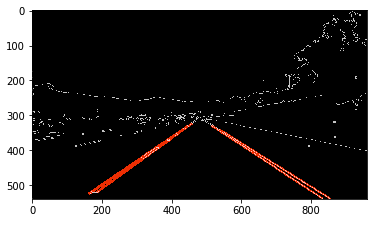
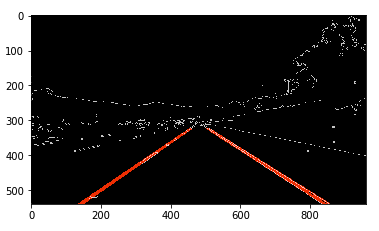
Update the drawing function

diff --git a/P1.html b/P1.html
@@ -13250,7 +13250,7 @@ div#notebook {
 
 
 <div class="output_text output_subarea output_execute_result">
-<pre>&lt;matplotlib.image.AxesImage at 0x7f24d185a320&gt;</pre>
+<pre>&lt;matplotlib.image.AxesImage at 0x7fbd52cb1320&gt;</pre>
 </div>
 
 </div>
@@ -13314,7 +13314,7 @@ div#notebook {
 </div>
 <div class="cell border-box-sizing code_cell rendered">
 <div class="input">
-<div class="prompt input_prompt">In&nbsp;[3]:</div>
+<div class="prompt input_prompt">In&nbsp;[78]:</div>
 <div class="inner_cell">
     <div class="input_area">
 <div class=" highlight hl-ipython3"><pre><span></span><span class="kn">import</span> <span class="nn">math</span>
@@ -13380,19 +13380,92 @@ div#notebook {
 <span class="sd">    If you want to make the lines semi-transparent, think about combining</span>
 <span class="sd">    this function with the weighted_img() function below</span>
 <span class="sd">    &quot;&quot;&quot;</span>
+    <span class="n">img_width</span> <span class="o">=</span> <span class="n">img</span><span class="o">.</span><span class="n">shape</span><span class="p">[</span><span class="mi">1</span><span class="p">]</span>
+    <span class="n">img_height</span> <span class="o">=</span> <span class="n">img</span><span class="o">.</span><span class="n">shape</span><span class="p">[</span><span class="mi">0</span><span class="p">]</span>
+    
+    <span class="n">x_left</span> <span class="o">=</span> <span class="p">[]</span>
+    <span class="n">y_left</span> <span class="o">=</span> <span class="p">[]</span>
+    <span class="n">m_left</span> <span class="o">=</span> <span class="p">[]</span>
+    <span class="n">b_left</span> <span class="o">=</span> <span class="p">[]</span>
+    <span class="n">x_right</span> <span class="o">=</span> <span class="p">[]</span>
+    <span class="n">y_right</span> <span class="o">=</span> <span class="p">[]</span>
+    <span class="n">m_right</span> <span class="o">=</span> <span class="p">[]</span>
+    <span class="n">b_right</span> <span class="o">=</span> <span class="p">[]</span>
+      
+    <span class="n">left_cnt</span> <span class="o">=</span> <span class="mi">0</span>
+    <span class="n">right_cnt</span> <span class="o">=</span> <span class="mi">0</span>
+    
+    <span class="n">intersect_y_top</span> <span class="o">=</span> <span class="nb">round</span><span class="p">(</span><span class="n">img_height</span><span class="o">*</span><span class="p">(</span><span class="mi">3</span><span class="o">/</span><span class="mi">5</span><span class="p">))</span>
+    <span class="n">intersect_y_bottom</span> <span class="o">=</span> <span class="n">img_height</span>
+    
     <span class="k">for</span> <span class="n">line</span> <span class="ow">in</span> <span class="n">lines</span><span class="p">:</span>
-        <span class="c1">#print(&#39;line:{}&#39;.format(line))</span>
         <span class="k">for</span> <span class="n">x1</span><span class="p">,</span><span class="n">y1</span><span class="p">,</span><span class="n">x2</span><span class="p">,</span><span class="n">y2</span> <span class="ow">in</span> <span class="n">line</span><span class="p">:</span>
             <span class="c1">#print(&#39;x1:{},y1:{},x2:{},y2:{}&#39;.format(x1,y1,x2,y2))</span>
+            <span class="n">lane_m</span> <span class="o">=</span> <span class="p">(</span><span class="n">y2</span><span class="o">-</span><span class="n">y1</span><span class="p">)</span><span class="o">/</span><span class="p">(</span><span class="n">x2</span><span class="o">-</span><span class="n">x1</span><span class="p">)</span>
+            <span class="n">lane_b</span> <span class="o">=</span> <span class="n">y1</span> <span class="o">-</span> <span class="p">(</span><span class="n">x1</span><span class="o">*</span><span class="n">lane_m</span><span class="p">)</span>
             <span class="n">slope_deg</span> <span class="o">=</span> <span class="n">np</span><span class="o">.</span><span class="n">rad2deg</span><span class="p">(</span><span class="n">np</span><span class="o">.</span><span class="n">arctan2</span><span class="p">(</span><span class="n">x1</span><span class="o">-</span><span class="n">x2</span><span class="p">,</span><span class="n">y1</span><span class="o">-</span><span class="n">y2</span><span class="p">))</span>            
             <span class="c1">#print(&#39;slope: {}&#39;.format(slope_deg))</span>
+            <span class="c1">#print(&#39;lane m: {}&#39;.format(lane_m))</span>
             
-            <span class="k">if</span> <span class="p">(</span><span class="n">slope_deg</span> <span class="o">&gt;</span> <span class="o">-</span><span class="mi">140</span> <span class="ow">and</span> <span class="n">slope_deg</span> <span class="o">&lt;=</span> <span class="o">-</span><span class="mi">100</span><span class="p">):</span>
-                <span class="n">cv2</span><span class="o">.</span><span class="n">line</span><span class="p">(</span><span class="n">img</span><span class="p">,</span> <span class="p">(</span><span class="n">x1</span><span class="p">,</span> <span class="n">y1</span><span class="p">),</span> <span class="p">(</span><span class="n">x2</span><span class="p">,</span> <span class="n">y2</span><span class="p">),</span> <span class="n">color</span><span class="p">,</span> <span class="n">thickness</span><span class="p">)</span>
-            <span class="k">elif</span> <span class="p">(</span><span class="n">slope_deg</span> <span class="o">&gt;</span> <span class="o">-</span><span class="mi">70</span> <span class="ow">and</span> <span class="n">slope_deg</span> <span class="o">&lt;=</span> <span class="o">-</span><span class="mi">30</span><span class="p">):</span>
-                <span class="n">cv2</span><span class="o">.</span><span class="n">line</span><span class="p">(</span><span class="n">img</span><span class="p">,</span> <span class="p">(</span><span class="n">x1</span><span class="p">,</span> <span class="n">y1</span><span class="p">),</span> <span class="p">(</span><span class="n">x2</span><span class="p">,</span> <span class="n">y2</span><span class="p">),</span> <span class="n">color</span><span class="p">,</span> <span class="n">thickness</span><span class="p">)</span>
+            <span class="k">if</span> <span class="p">(</span><span class="n">slope_deg</span> <span class="o">&gt;</span> <span class="o">-</span><span class="mi">60</span> <span class="ow">and</span> <span class="n">slope_deg</span> <span class="o">&lt;=</span> <span class="o">-</span><span class="mi">40</span><span class="p">):</span>
+            <span class="c1">#if (lane_m &lt; 0):</span>
+                <span class="n">x_left</span><span class="o">.</span><span class="n">append</span><span class="p">(</span><span class="n">x1</span><span class="p">)</span>
+                <span class="n">y_left</span><span class="o">.</span><span class="n">append</span><span class="p">(</span><span class="n">y1</span><span class="p">)</span>
+                <span class="n">x_left</span><span class="o">.</span><span class="n">append</span><span class="p">(</span><span class="n">x2</span><span class="p">)</span>
+                <span class="n">y_left</span><span class="o">.</span><span class="n">append</span><span class="p">(</span><span class="n">y2</span><span class="p">)</span>
+                <span class="n">m_left</span><span class="o">.</span><span class="n">append</span><span class="p">(</span><span class="n">lane_m</span><span class="p">)</span>
+                <span class="n">b_left</span><span class="o">.</span><span class="n">append</span><span class="p">(</span><span class="n">lane_b</span><span class="p">)</span>
+                
+                <span class="n">left_cnt</span> <span class="o">+=</span> <span class="mi">1</span>
+                
+            <span class="k">elif</span> <span class="p">(</span><span class="n">slope_deg</span> <span class="o">&gt;</span> <span class="o">-</span><span class="mi">130</span> <span class="ow">and</span> <span class="n">slope_deg</span> <span class="o">&lt;=</span> <span class="o">-</span><span class="mi">110</span><span class="p">):</span>
+            <span class="c1">#elif (lane_m &gt; 0):</span>
+                <span class="n">x_right</span><span class="o">.</span><span class="n">append</span><span class="p">(</span><span class="n">x1</span><span class="p">)</span>
+                <span class="n">y_right</span><span class="o">.</span><span class="n">append</span><span class="p">(</span><span class="n">y1</span><span class="p">)</span>
+                <span class="n">x_right</span><span class="o">.</span><span class="n">append</span><span class="p">(</span><span class="n">x2</span><span class="p">)</span>
+                <span class="n">y_right</span><span class="o">.</span><span class="n">append</span><span class="p">(</span><span class="n">y2</span><span class="p">)</span>
+                <span class="n">m_right</span><span class="o">.</span><span class="n">append</span><span class="p">(</span><span class="n">lane_m</span><span class="p">)</span>
+                <span class="n">b_right</span><span class="o">.</span><span class="n">append</span><span class="p">(</span><span class="n">lane_b</span><span class="p">)</span>
+                
+                <span class="n">right_cnt</span> <span class="o">+=</span> <span class="mi">1</span>
+              
             <span class="k">else</span><span class="p">:</span>
                 <span class="k">pass</span>
+            
+        <span class="k">if</span> <span class="p">(</span><span class="n">left_cnt</span> <span class="o">&gt;</span> <span class="mi">0</span><span class="p">):</span>
+            <span class="c1"># lane fitting 1st polynomial (y = mx + b)</span>
+            <span class="c1">#left_lane = np.polyfit(x_left, y_left, 1)</span>
+            <span class="n">avg_left_m</span> <span class="o">=</span> <span class="nb">sum</span><span class="p">(</span><span class="n">m_left</span><span class="p">)</span><span class="o">/</span><span class="nb">len</span><span class="p">(</span><span class="n">m_left</span><span class="p">)</span>
+            <span class="n">avg_left_b</span> <span class="o">=</span> <span class="nb">sum</span><span class="p">(</span><span class="n">b_left</span><span class="p">)</span><span class="o">/</span><span class="nb">len</span><span class="p">(</span><span class="n">b_left</span><span class="p">)</span>
+            
+            <span class="c1"># x = (y-b)/m</span>
+            <span class="n">x_left_max</span> <span class="o">=</span> <span class="nb">round</span><span class="p">(</span><span class="nb">int</span><span class="p">((</span><span class="n">intersect_y_top</span> <span class="o">-</span> <span class="n">avg_left_b</span><span class="p">)</span><span class="o">/</span><span class="n">avg_left_m</span><span class="p">))</span>
+            <span class="n">x_left_min</span> <span class="o">=</span> <span class="nb">round</span><span class="p">(</span><span class="nb">int</span><span class="p">((</span><span class="n">intersect_y_bottom</span> <span class="o">-</span> <span class="n">avg_left_b</span><span class="p">)</span><span class="o">/</span><span class="n">avg_left_m</span><span class="p">))</span>
+                
+            <span class="c1">#print(&#39;left max:{}&#39;.format(x_left_max))</span>
+            <span class="c1">#print(&#39;left min:{}&#39;.format(x_left_min))</span>
+                
+            <span class="n">cv2</span><span class="o">.</span><span class="n">line</span><span class="p">(</span><span class="n">img</span><span class="p">,</span> <span class="p">(</span><span class="n">x_left_max</span><span class="p">,</span> <span class="n">intersect_y_top</span><span class="p">),</span>\
+                    <span class="p">(</span><span class="n">x_left_min</span><span class="p">,</span> <span class="n">intersect_y_bottom</span><span class="p">),</span> <span class="n">color</span><span class="p">,</span> <span class="n">thickness</span><span class="p">)</span>
+        <span class="k">else</span><span class="p">:</span>
+            <span class="k">pass</span>
+        
+        <span class="k">if</span> <span class="p">(</span><span class="n">right_cnt</span> <span class="o">&gt;</span> <span class="mi">0</span><span class="p">):</span>
+            <span class="c1">#right_lane = np.polyfit(x_right, y_right, 1)</span>
+            <span class="n">avg_right_m</span> <span class="o">=</span> <span class="nb">sum</span><span class="p">(</span><span class="n">m_right</span><span class="p">)</span><span class="o">/</span><span class="nb">len</span><span class="p">(</span><span class="n">m_right</span><span class="p">)</span>
+            <span class="n">avg_right_b</span> <span class="o">=</span> <span class="nb">sum</span><span class="p">(</span><span class="n">b_right</span><span class="p">)</span><span class="o">/</span><span class="nb">len</span><span class="p">(</span><span class="n">b_right</span><span class="p">)</span>
+            
+            <span class="n">x_right_max</span> <span class="o">=</span> <span class="nb">round</span><span class="p">(</span><span class="nb">int</span><span class="p">((</span><span class="n">intersect_y_top</span> <span class="o">-</span> <span class="n">avg_right_b</span><span class="p">)</span><span class="o">/</span><span class="n">avg_right_m</span><span class="p">))</span>
+            <span class="n">x_right_min</span> <span class="o">=</span> <span class="nb">round</span><span class="p">(</span><span class="nb">int</span><span class="p">((</span><span class="n">intersect_y_bottom</span> <span class="o">-</span> <span class="n">avg_right_b</span><span class="p">)</span><span class="o">/</span><span class="n">avg_right_m</span><span class="p">))</span>
+                
+            <span class="c1">#print(&#39;right max:{}&#39;.format(x_right_max))</span>
+            <span class="c1">#print(&#39;right min:{}&#39;.format(x_right_min))</span>
+                
+            <span class="n">cv2</span><span class="o">.</span><span class="n">line</span><span class="p">(</span><span class="n">img</span><span class="p">,</span> <span class="p">(</span><span class="n">x_right_max</span><span class="p">,</span> <span class="n">intersect_y_top</span><span class="p">),</span>\
+                    <span class="p">(</span><span class="n">x_right_min</span><span class="p">,</span> <span class="n">intersect_y_bottom</span><span class="p">),</span> <span class="n">color</span><span class="p">,</span> <span class="n">thickness</span><span class="p">)</span>
+        <span class="k">else</span><span class="p">:</span>
+            <span class="k">pass</span>
+        
                 
 <span class="k">def</span> <span class="nf">hough_lines</span><span class="p">(</span><span class="n">img</span><span class="p">,</span> <span class="n">rho</span><span class="p">,</span> <span class="n">theta</span><span class="p">,</span> <span class="n">threshold</span><span class="p">,</span> <span class="n">min_line_len</span><span class="p">,</span> <span class="n">max_line_gap</span><span class="p">):</span>
     <span class="sd">&quot;&quot;&quot;</span>
@@ -13439,7 +13512,7 @@ div#notebook {
 </div>
 <div class="cell border-box-sizing code_cell rendered">
 <div class="input">
-<div class="prompt input_prompt">In&nbsp;[4]:</div>
+<div class="prompt input_prompt">In&nbsp;[63]:</div>
 <div class="inner_cell">
     <div class="input_area">
 <div class=" highlight hl-ipython3"><pre><span></span><span class="kn">import</span> <span class="nn">os</span>
@@ -13456,7 +13529,7 @@ div#notebook {
 
 <div class="output_area">
 
-    <div class="prompt output_prompt">Out[4]:</div>
+    <div class="prompt output_prompt">Out[63]:</div>
 
 
 
@@ -13485,7 +13558,7 @@ div#notebook {
 </div>
 <div class="cell border-box-sizing code_cell rendered">
 <div class="input">
-<div class="prompt input_prompt">In&nbsp;[5]:</div>
+<div class="prompt input_prompt">In&nbsp;[79]:</div>
 <div class="inner_cell">
     <div class="input_area">
 <div class=" highlight hl-ipython3"><pre><span></span><span class="c1"># TODO: Build your pipeline that will draw lane lines on the test_images</span>
@@ -13535,13 +13608,13 @@ div#notebook {
 
 <div class="output_area">
 
-    <div class="prompt output_prompt">Out[5]:</div>
+    <div class="prompt output_prompt">Out[79]:</div>
 
 
 
 
 <div class="output_text output_subarea output_execute_result">
-<pre>&lt;matplotlib.image.AxesImage at 0x7f249bf54ac8&gt;</pre>
+<pre>&lt;matplotlib.image.AxesImage at 0x7fbd10981ac8&gt;</pre>
 </div>
 
 </div>
@@ -13554,7 +13627,7 @@ div#notebook {
 
 
 <div class="output_png output_subarea ">
[2 lines of base64/hex data omitted]
 "
 >
 </div>
@@ -13609,7 +13682,7 @@ imageio.plugins.ffmpeg.download()</code></pre>
 </div>
 <div class="cell border-box-sizing code_cell rendered">
 <div class="input">
-<div class="prompt input_prompt">In&nbsp;[7]:</div>
+<div class="prompt input_prompt">In&nbsp;[80]:</div>
 <div class="inner_cell">
     <div class="input_area">
 <div class=" highlight hl-ipython3"><pre><span></span><span class="k">def</span> <span class="nf">process_image</span><span class="p">(</span><span class="n">image</span><span class="p">):</span>
@@ -13667,7 +13740,7 @@ imageio.plugins.ffmpeg.download()</code></pre>
 </div>
 <div class="cell border-box-sizing code_cell rendered">
 <div class="input">
-<div class="prompt input_prompt">In&nbsp;[8]:</div>
+<div class="prompt input_prompt">In&nbsp;[81]:</div>
 <div class="inner_cell">
     <div class="input_area">
 <div class=" highlight hl-ipython3"><pre><span></span><span class="n">white_output</span> <span class="o">=</span> <span class="s1">&#39;test_videos_output/solidWhiteRight.mp4&#39;</span>
@@ -13707,7 +13780,7 @@ imageio.plugins.ffmpeg.download()</code></pre>
 
 
 <div class="output_subarea output_stream output_stderr output_text">
-<pre>100%|█████████▉| 221/222 [00:19&lt;00:00, 10.46it/s]
+<pre>100%|█████████▉| 221/222 [00:09&lt;00:00, 22.87it/s]
 </pre>
 </div>
 </div>
@@ -13721,8 +13794,8 @@ imageio.plugins.ffmpeg.download()</code></pre>
 <pre>[MoviePy] Done.
 [MoviePy] &gt;&gt;&gt;&gt; Video ready: test_videos_output/solidWhiteRight.mp4 
 
-CPU times: user 2.92 s, sys: 285 ms, total: 3.2 s
-Wall time: 21.6 s
+CPU times: user 2.69 s, sys: 262 ms, total: 2.95 s
+Wall time: 10.6 s
 </pre>
 </div>
 </div>
@@ -13741,7 +13814,7 @@ Wall time: 21.6 s
 </div>
 <div class="cell border-box-sizing code_cell rendered">
 <div class="input">
-<div class="prompt input_prompt">In&nbsp;[9]:</div>
+<div class="prompt input_prompt">In&nbsp;[82]:</div>
 <div class="inner_cell">
     <div class="input_area">
 <div class=" highlight hl-ipython3"><pre><span></span><span class="n">HTML</span><span class="p">(</span><span class="s2">&quot;&quot;&quot;</span>
@@ -13761,7 +13834,7 @@ Wall time: 21.6 s
 
 <div class="output_area">
 
-    <div class="prompt output_prompt">Out[9]:</div>
+    <div class="prompt output_prompt">Out[82]:</div>
 
 
 
@@ -13798,7 +13871,7 @@ Wall time: 21.6 s
 </div>
 <div class="cell border-box-sizing code_cell rendered">
 <div class="input">
-<div class="prompt input_prompt">In&nbsp;[10]:</div>
+<div class="prompt input_prompt">In&nbsp;[83]:</div>
 <div class="inner_cell">
     <div class="input_area">
 <div class=" highlight hl-ipython3"><pre><span></span><span class="n">yellow_output</span> <span class="o">=</span> <span class="s1">&#39;test_videos_output/solidYellowLeft.mp4&#39;</span>
@@ -13838,7 +13911,7 @@ Wall time: 21.6 s
 
 
 <div class="output_subarea output_stream output_stderr output_text">
-<pre>100%|█████████▉| 681/682 [00:31&lt;00:00, 21.44it/s]
+<pre>100%|█████████▉| 681/682 [00:32&lt;00:00, 20.72it/s]
 </pre>
 </div>
 </div>
@@ -13852,8 +13925,8 @@ Wall time: 21.6 s
 <pre>[MoviePy] Done.
 [MoviePy] &gt;&gt;&gt;&gt; Video ready: test_videos_output/solidYellowLeft.mp4 
 
-CPU times: user 8.76 s, sys: 837 ms, total: 9.59 s
-Wall time: 32.7 s
+CPU times: user 8.59 s, sys: 709 ms, total: 9.3 s
+Wall time: 33.2 s
 </pre>
 </div>
 </div>
@@ -13864,7 +13937,7 @@ Wall time: 32.7 s
 </div>
 <div class="cell border-box-sizing code_cell rendered">
 <div class="input">
-<div class="prompt input_prompt">In&nbsp;[11]:</div>
+<div class="prompt input_prompt">In&nbsp;[84]:</div>
 <div class="inner_cell">
     <div class="input_area">
 <div class=" highlight hl-ipython3"><pre><span></span><span class="n">HTML</span><span class="p">(</span><span class="s2">&quot;&quot;&quot;</span>
@@ -13884,7 +13957,7 @@ Wall time: 32.7 s
 
 <div class="output_area">
 
-    <div class="prompt output_prompt">Out[11]:</div>
+    <div class="prompt output_prompt">Out[84]:</div>
 
 
 
@@ -13920,7 +13993,7 @@ Wall time: 32.7 s
 </div>
 <div class="cell border-box-sizing code_cell rendered">
 <div class="input">
-<div class="prompt input_prompt">In&nbsp;[12]:</div>
+<div class="prompt input_prompt">In&nbsp;[85]:</div>
 <div class="inner_cell">
     <div class="input_area">
 <div class=" highlight hl-ipython3"><pre><span></span><span class="n">challenge_output</span> <span class="o">=</span> <span class="s1">&#39;test_videos_output/challenge.mp4&#39;</span>
@@ -13960,7 +14033,7 @@ Wall time: 32.7 s
 
 
 <div class="output_subarea output_stream output_stderr output_text">
-<pre>100%|██████████| 251/251 [00:26&lt;00:00,  9.45it/s]
+<pre>100%|██████████| 251/251 [00:27&lt;00:00,  9.23it/s]
 </pre>
 </div>
 </div>
@@ -13974,8 +14047,8 @@ Wall time: 32.7 s
 <pre>[MoviePy] Done.
 [MoviePy] &gt;&gt;&gt;&gt; Video ready: test_videos_output/challenge.mp4 
 
-CPU times: user 6.32 s, sys: 528 ms, total: 6.85 s
-Wall time: 28.6 s
+CPU times: user 6.47 s, sys: 444 ms, total: 6.92 s
+Wall time: 29.3 s
 </pre>
 </div>
 </div>
@@ -13986,7 +14059,7 @@ Wall time: 28.6 s
 </div>
 <div class="cell border-box-sizing code_cell rendered">
 <div class="input">
-<div class="prompt input_prompt">In&nbsp;[13]:</div>
+<div class="prompt input_prompt">In&nbsp;[86]:</div>
 <div class="inner_cell">
     <div class="input_area">
 <div class=" highlight hl-ipython3"><pre><span></span><span class="n">HTML</span><span class="p">(</span><span class="s2">&quot;&quot;&quot;</span>
@@ -14006,7 +14079,7 @@ Wall time: 28.6 s
 
 <div class="output_area">
 
-    <div class="prompt output_prompt">Out[13]:</div>
+    <div class="prompt output_prompt">Out[86]:</div>
 
 
 

diff --git a/writeup_template.md b/writeup_template.md
@@ -19,6 +19,7 @@ The goals / steps of this project are the following:
 [result1]: ./result1.png "Grayscale"
 [result2]: ./result2.png "Grayscale"
 [result3]: ./result3.png "Grayscale"
+[result4]: ./result4.png "Grayscale"
 
 ---
 
@@ -28,31 +29,41 @@ The goals / steps of this project are the following:
 
 My pipeline consisted of 6 steps. 
 
-Step 1. I converted the images to grayscale.
-Step 2. I defined a kernel size and apply Gaussian smoothing.
-Step 3. I defined parameters for Canny and apply.
-Step 4. I defined a ROI mask with four sided polygon.
-Step 5. I defined the hough transform parameters.
-Step 6. I drawed the lines on the edge image.
+Step 1. Converting the images to grayscale
+Step 2. Gaussian smoothing
+Step 3. Canny edge
+Step 4. ROI mask with four sided polygon
+Step 5. hough transform
+Step 6. Draw lane lines
 
 In order to draw a single line on the left and right lanes, 
 I modified the draw_lines() function by calculating the scope of lines.
 
-After calculating the scope of lines, I deleted the unreasonable lines which has a out of range about scope.
+
+After calculating the slope of lines, I deleted the unreasonable lines which has a out of range about scope.
+
+- case 1) left side's slope (-60 ~ -40 degree)
+- case 2) right side's slope (-130 ~ -110 degree)
+
+And then, I extracted the average slope of the each side's lanes and 'b' values. (y = mx + b)
+So I already know the all information about 1st polynomial line which means straight line.
+Finally, I got the maximum and minimum x value of each side's lanes and draw this results.
+
 
 The results of my pipelines are like below images.
 
 
 ![alt text][result1]
 ![alt text][result2]
-
+![alt test][result3]
 
 ### 2. Identify potential shortcomings with your current pipeline
 
 I think my code have some potential shortcomings.
 
-As I just delete some unreasonable lane lines with scopes so it is dependent the 
-threshold of scopes conditions.
+As I just delete some unreasonable lane lines with scopes so it is dependent the threshold of scopes conditions and it's hard to track the lane with high curvature.
+
+![alt text][result4]
 
 ### 3. Suggest possible improvements to your pipeline
 
@@ -61,5 +72,3 @@ My code is possible improved by additional stretegy.
 If I can delete unuseful lines between two major lane lines of left and right side, it would be better than now.
 
 And If I can track the two side lines continuously with curvature not straight line, it would be better than now.
-
-![alt text][result3]
